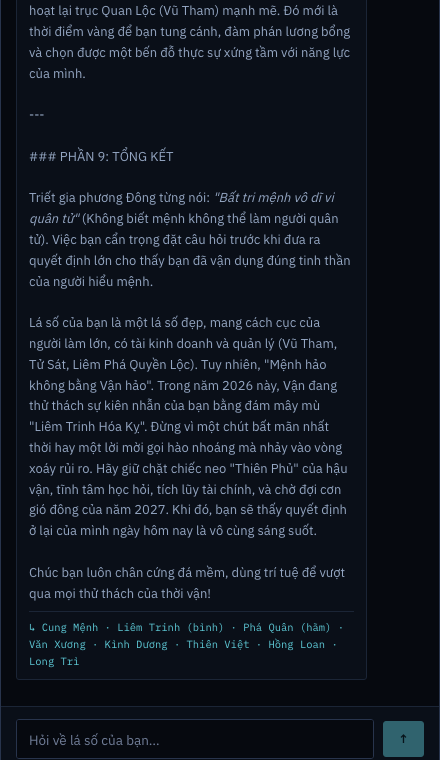
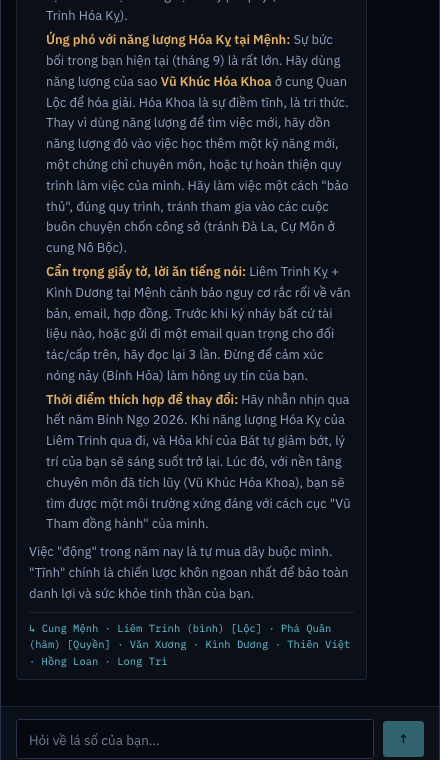
docs: regenerate chat.png on the fixed markdown rendering
The committed shot showed the bug: a literal `---` and `### PHẦN 9: TỔNG KẾT`
in the bubble. The new one is the same live question against the same fixture
chart, laid out — bold lead-ins, bulleted list items — with the .cite row
unchanged beneath it. One Gemini call, as the harness intends.

AGENTS.md's citation bullet now points at the shared parser and says why the
bubble variant exists, so the next session does not add a third renderer.

Claude-Session: https://claude.ai/code/session_01VQ6DsULnppMyaJMk2iuJnr

Changed region(s): [[0.0591, 0.0, 0.7977, 0.7868], [0.0591, 0.8171, 0.7682, 0.8776]]

diff --git a/AGENTS.md b/AGENTS.md
@@ -73,10 +73,14 @@ Four things about the prompt that are easy to get wrong:
 - **A `>` line in a reading is a CITATION, not a quotation.** D1: the model
   names the cung and the sao behind each judgement on its own line, which
   `renderMarkdown` turns into the `.sealq` block, and `splitCitation` peels off
-  the chat answer's into its `.cite` row. A citation may name a second palace
-  (the đối cung) — the mockup's own does — so anything checking one must
-  attribute each star to the palace it FOLLOWS, never to the first palace in
-  the line. `tests/eval/checks.ts` `segmentByPalace` is that rule.
+  the chat answer's into its `.cite` row. Both surfaces share that parser
+  (`src/lib/markdown.ts`), but the chat bubble is not a document surface: its
+  `bubble` variant makes a heading a bold lead-in line and renders a `>` line
+  as prose, never a blockquote. New block syntax goes in that one file. A
+  citation may name a second palace (the đối cung) — the mockup's own does —
+  so anything checking one must attribute each star to the palace it FOLLOWS,
+  never to the first palace in the line. `tests/eval/checks.ts`
+  `segmentByPalace` is that rule.
 - **Vietnamese in a `ko`/`zh` reading is almost always OUR bug.** `term()` looks
   up a whole value, so any code that splits a field before translating it must
   split exactly right — a tứ hóa entry is `"<hoá> <sao>"` and the sao is usually
